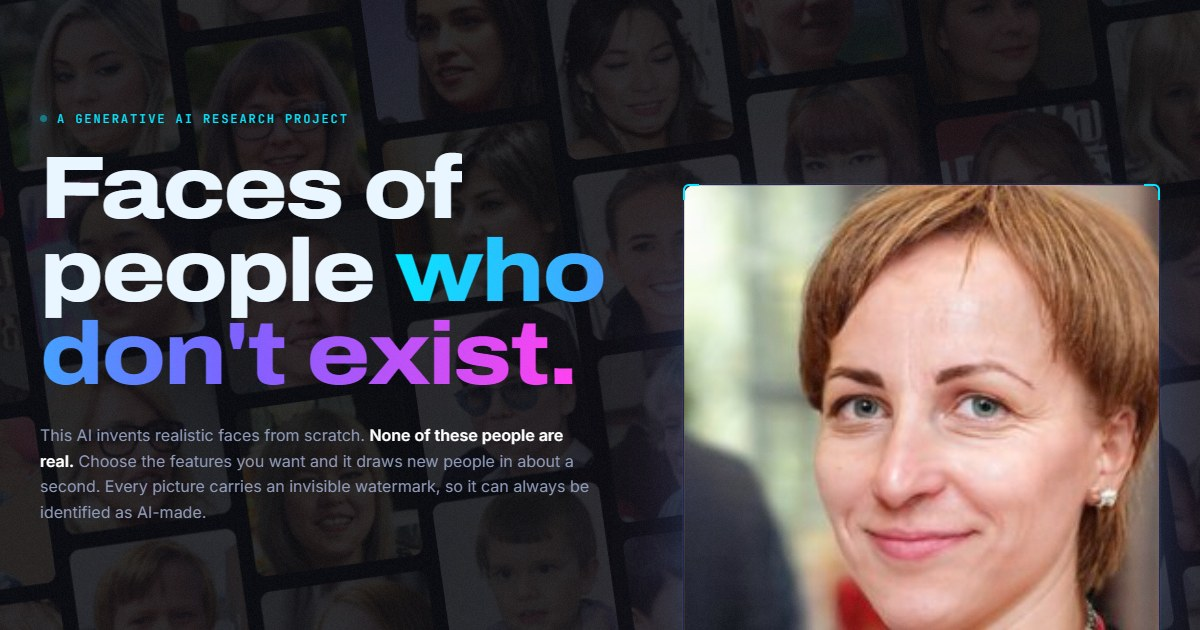
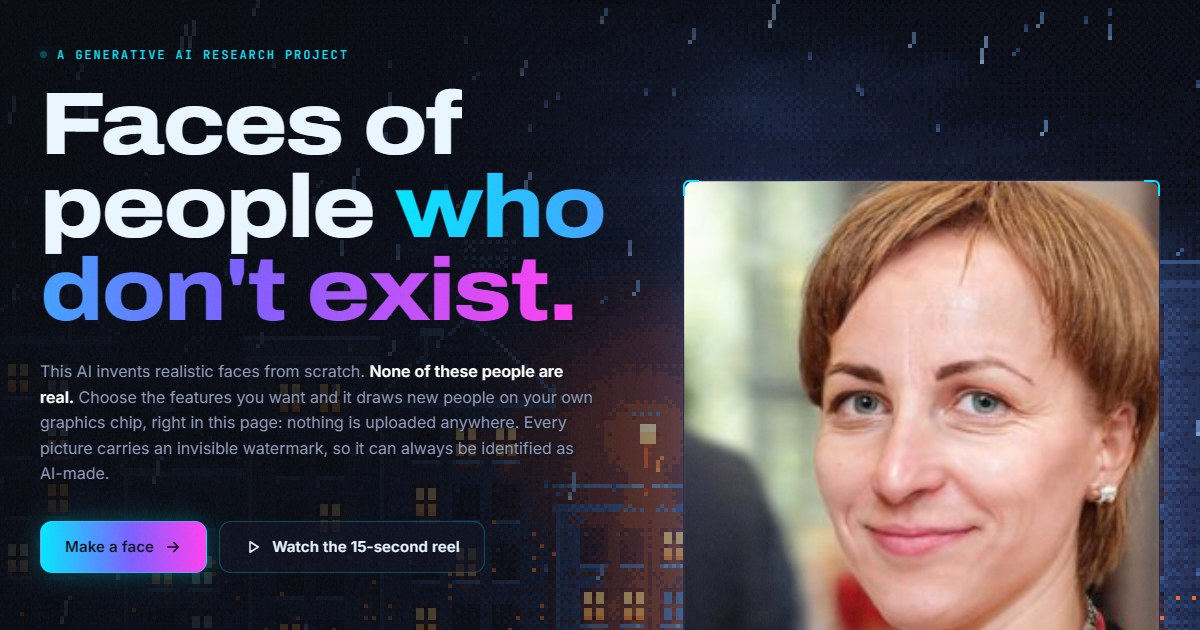
Link preview picture shows the pixel-art town; og_image.py works under the site's CSP

diff --git a/scripts/site/og_image.py b/scripts/site/og_image.py
@@ -1,22 +1,32 @@
 """The link-preview picture (site/assets/og.jpg, 1200x630): the site's own opening, rendered in Edge.
 
-uv run python -m http.server 8080 --directory site &
-uv run python scripts/site/og_image.py [--url http://localhost:8080/]
+uv run python scripts/site/serve.py --port 8081 &
+uv run python scripts/site/og_image.py [--url http://localhost:8081/]
 """
 
 from __future__ import annotations
 
 import argparse
+import time
 from pathlib import Path
 
-from playwright.sync_api import sync_playwright
+from playwright.sync_api import Page, sync_playwright
 
 OUT = Path(__file__).resolve().parents[2] / "site" / "assets" / "og.jpg"
 
 
+def wait_js(pg: Page, expr: str, timeout: int = 30_000) -> None:
+    """Poll a JavaScript expression (wait_for_function compiles it with eval, which the site's CSP blocks)."""
+    end = time.monotonic() + timeout / 1000
+    while not pg.evaluate(expr):
+        if time.monotonic() > end:
+            raise TimeoutError(expr)
+        pg.wait_for_timeout(250)
+
+
 def main() -> None:
     ap = argparse.ArgumentParser()
-    ap.add_argument("--url", default="http://localhost:8080/")
+    ap.add_argument("--url", default="http://localhost:8081/")
     a = ap.parse_args()
     with sync_playwright() as p:
         b = p.chromium.launch(channel="msedge")
@@ -24,9 +34,12 @@ def main() -> None:
         page.add_init_script("sessionStorage.setItem('hd-intro', '1')")  # no intro in the picture
         page.goto(a.url, wait_until="load")
         # wait for the words to land and the portrait to finish a face
-        page.wait_for_function("document.querySelector('.hud-step b')?.textContent === '25'", timeout=30_000)
-        page.wait_for_timeout(900)
-        page.add_style_tag(content=".scroll-cue, .nav { visibility: hidden }")
+        wait_js(page, "document.querySelector('.hud-step b')?.textContent === '25'")
+        wait_js(page, "document.querySelector('.hero-scene canvas')?.width > 0")
+        page.wait_for_timeout(1500)  # rain falling, fire lit
+        page.evaluate(  # the CSP blocks injected <style>; element styles are fine
+            "document.querySelectorAll('.scroll-cue, .live-pill').forEach((e) => (e.style.visibility = 'hidden'))"
+        )
         page.screenshot(path=str(OUT), type="jpeg", quality=88)
         b.close()
     print(OUT, f"{OUT.stat().st_size / 1024:.0f} KB")
